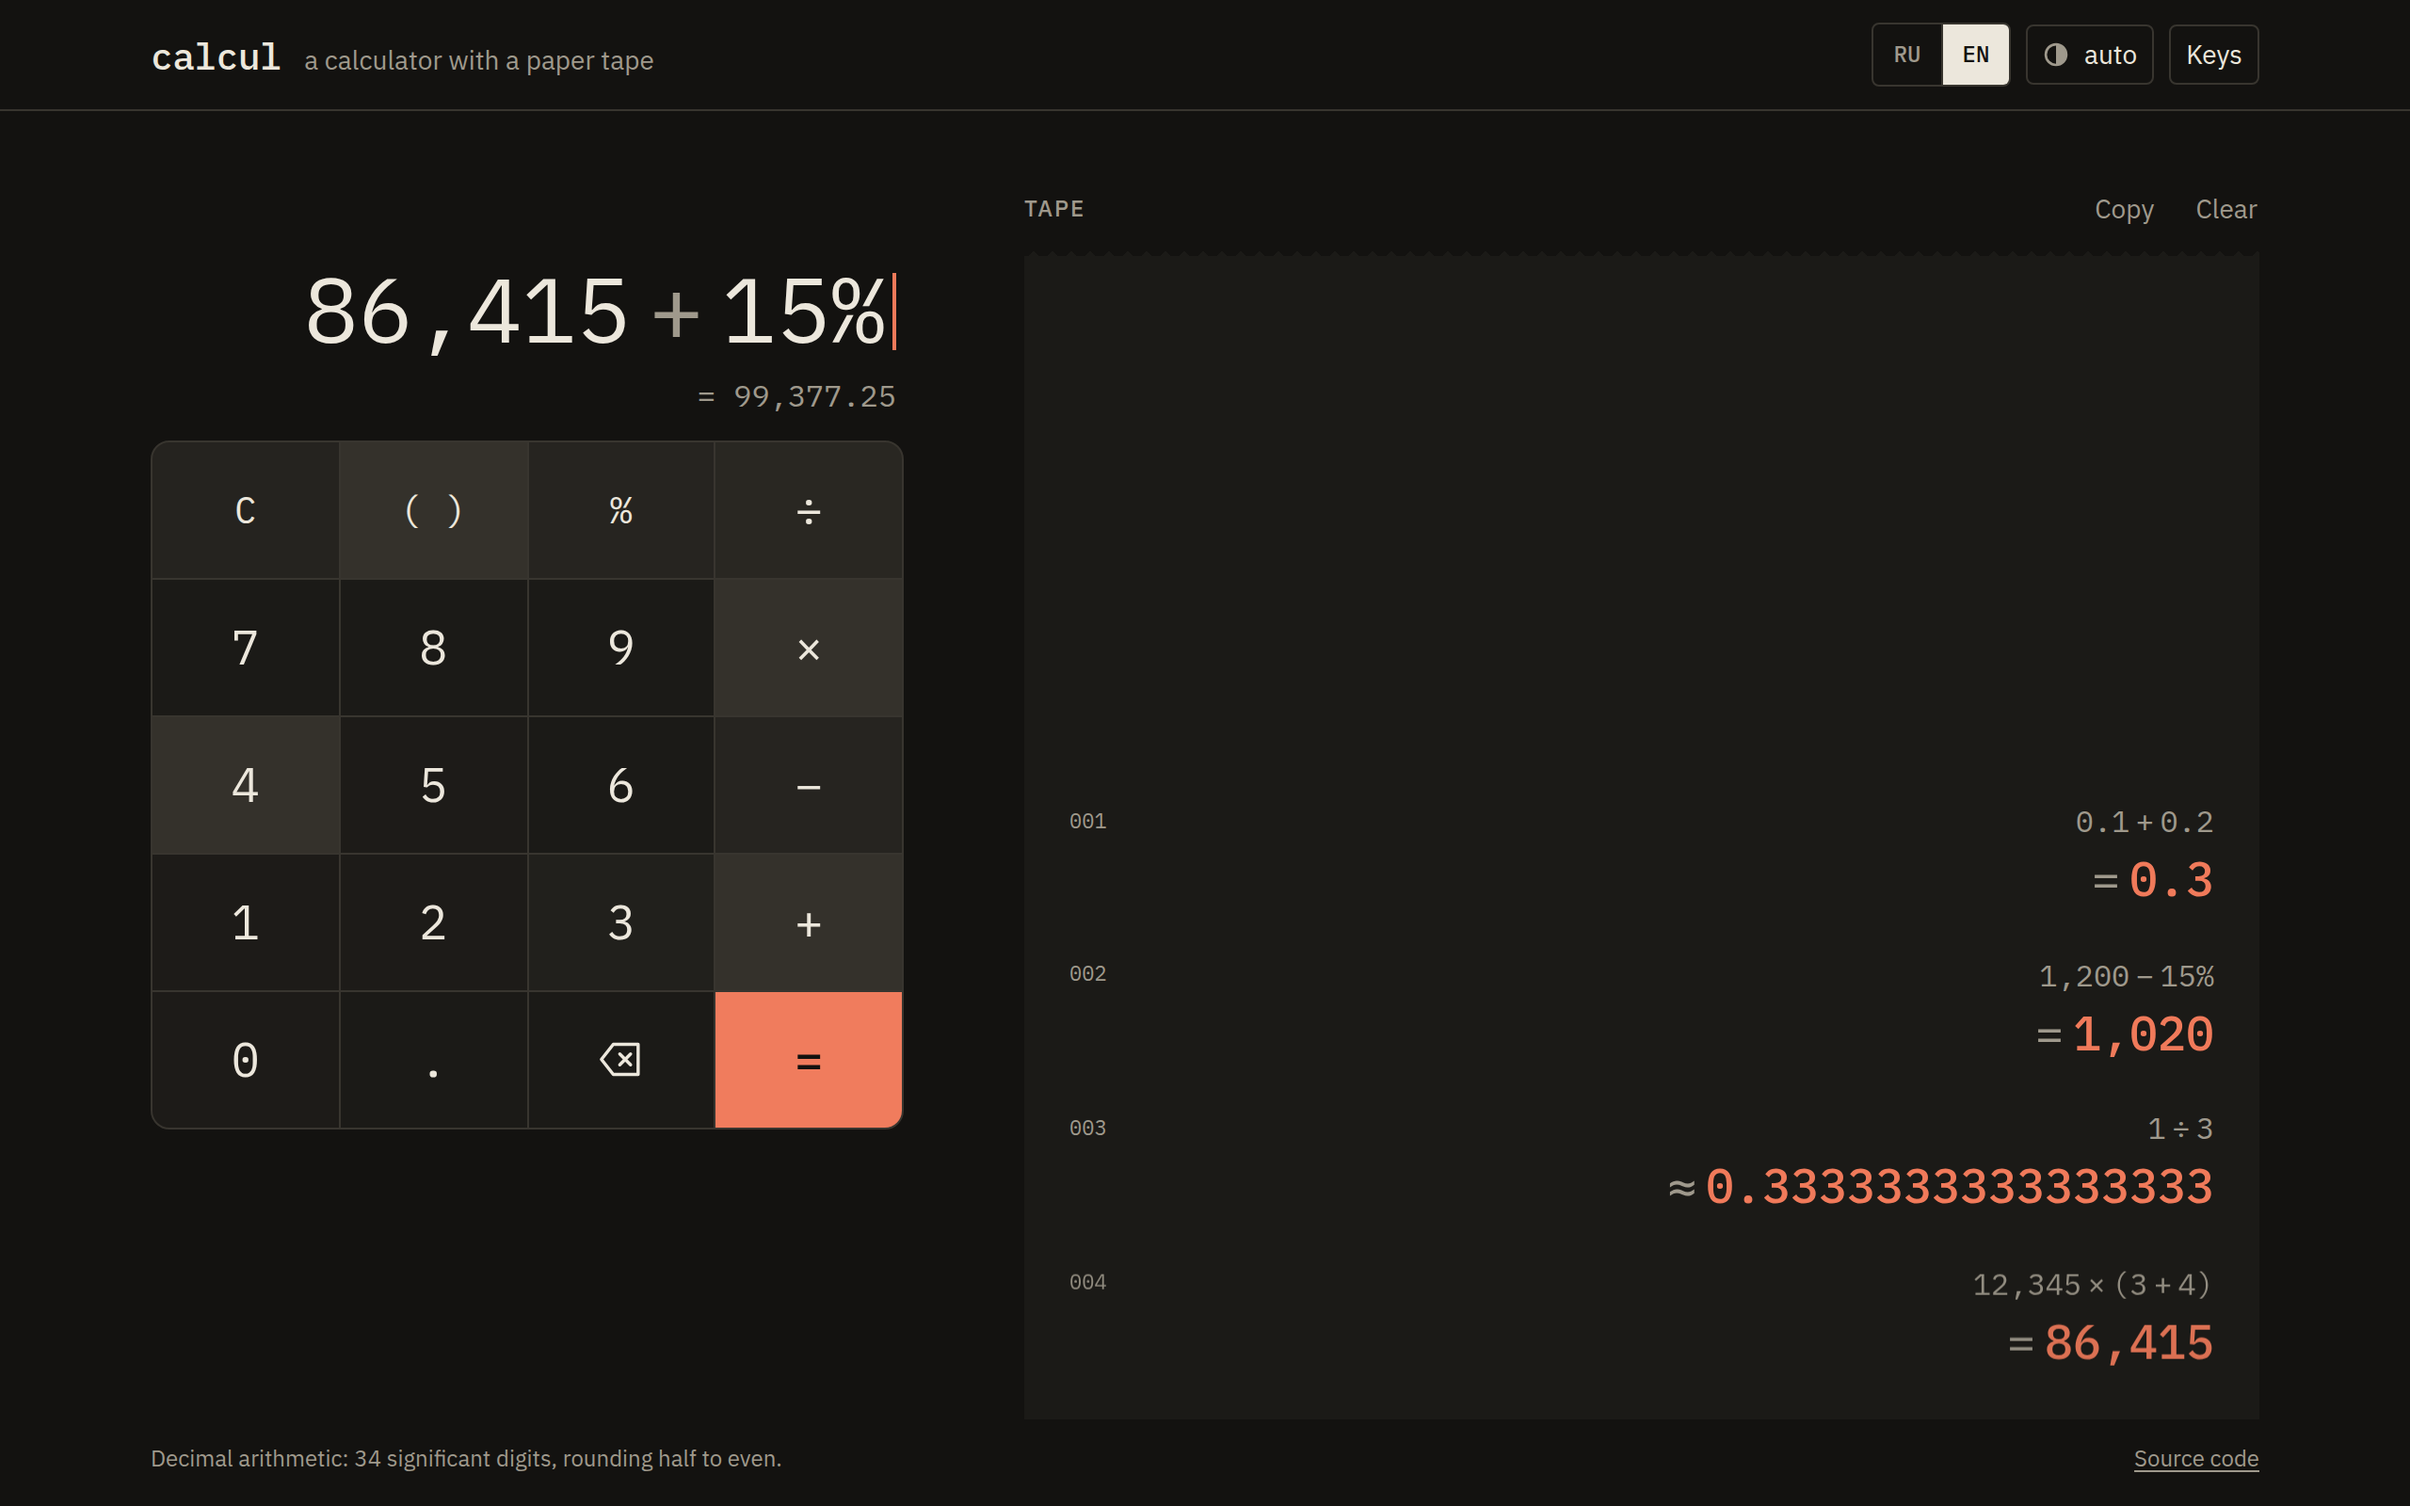
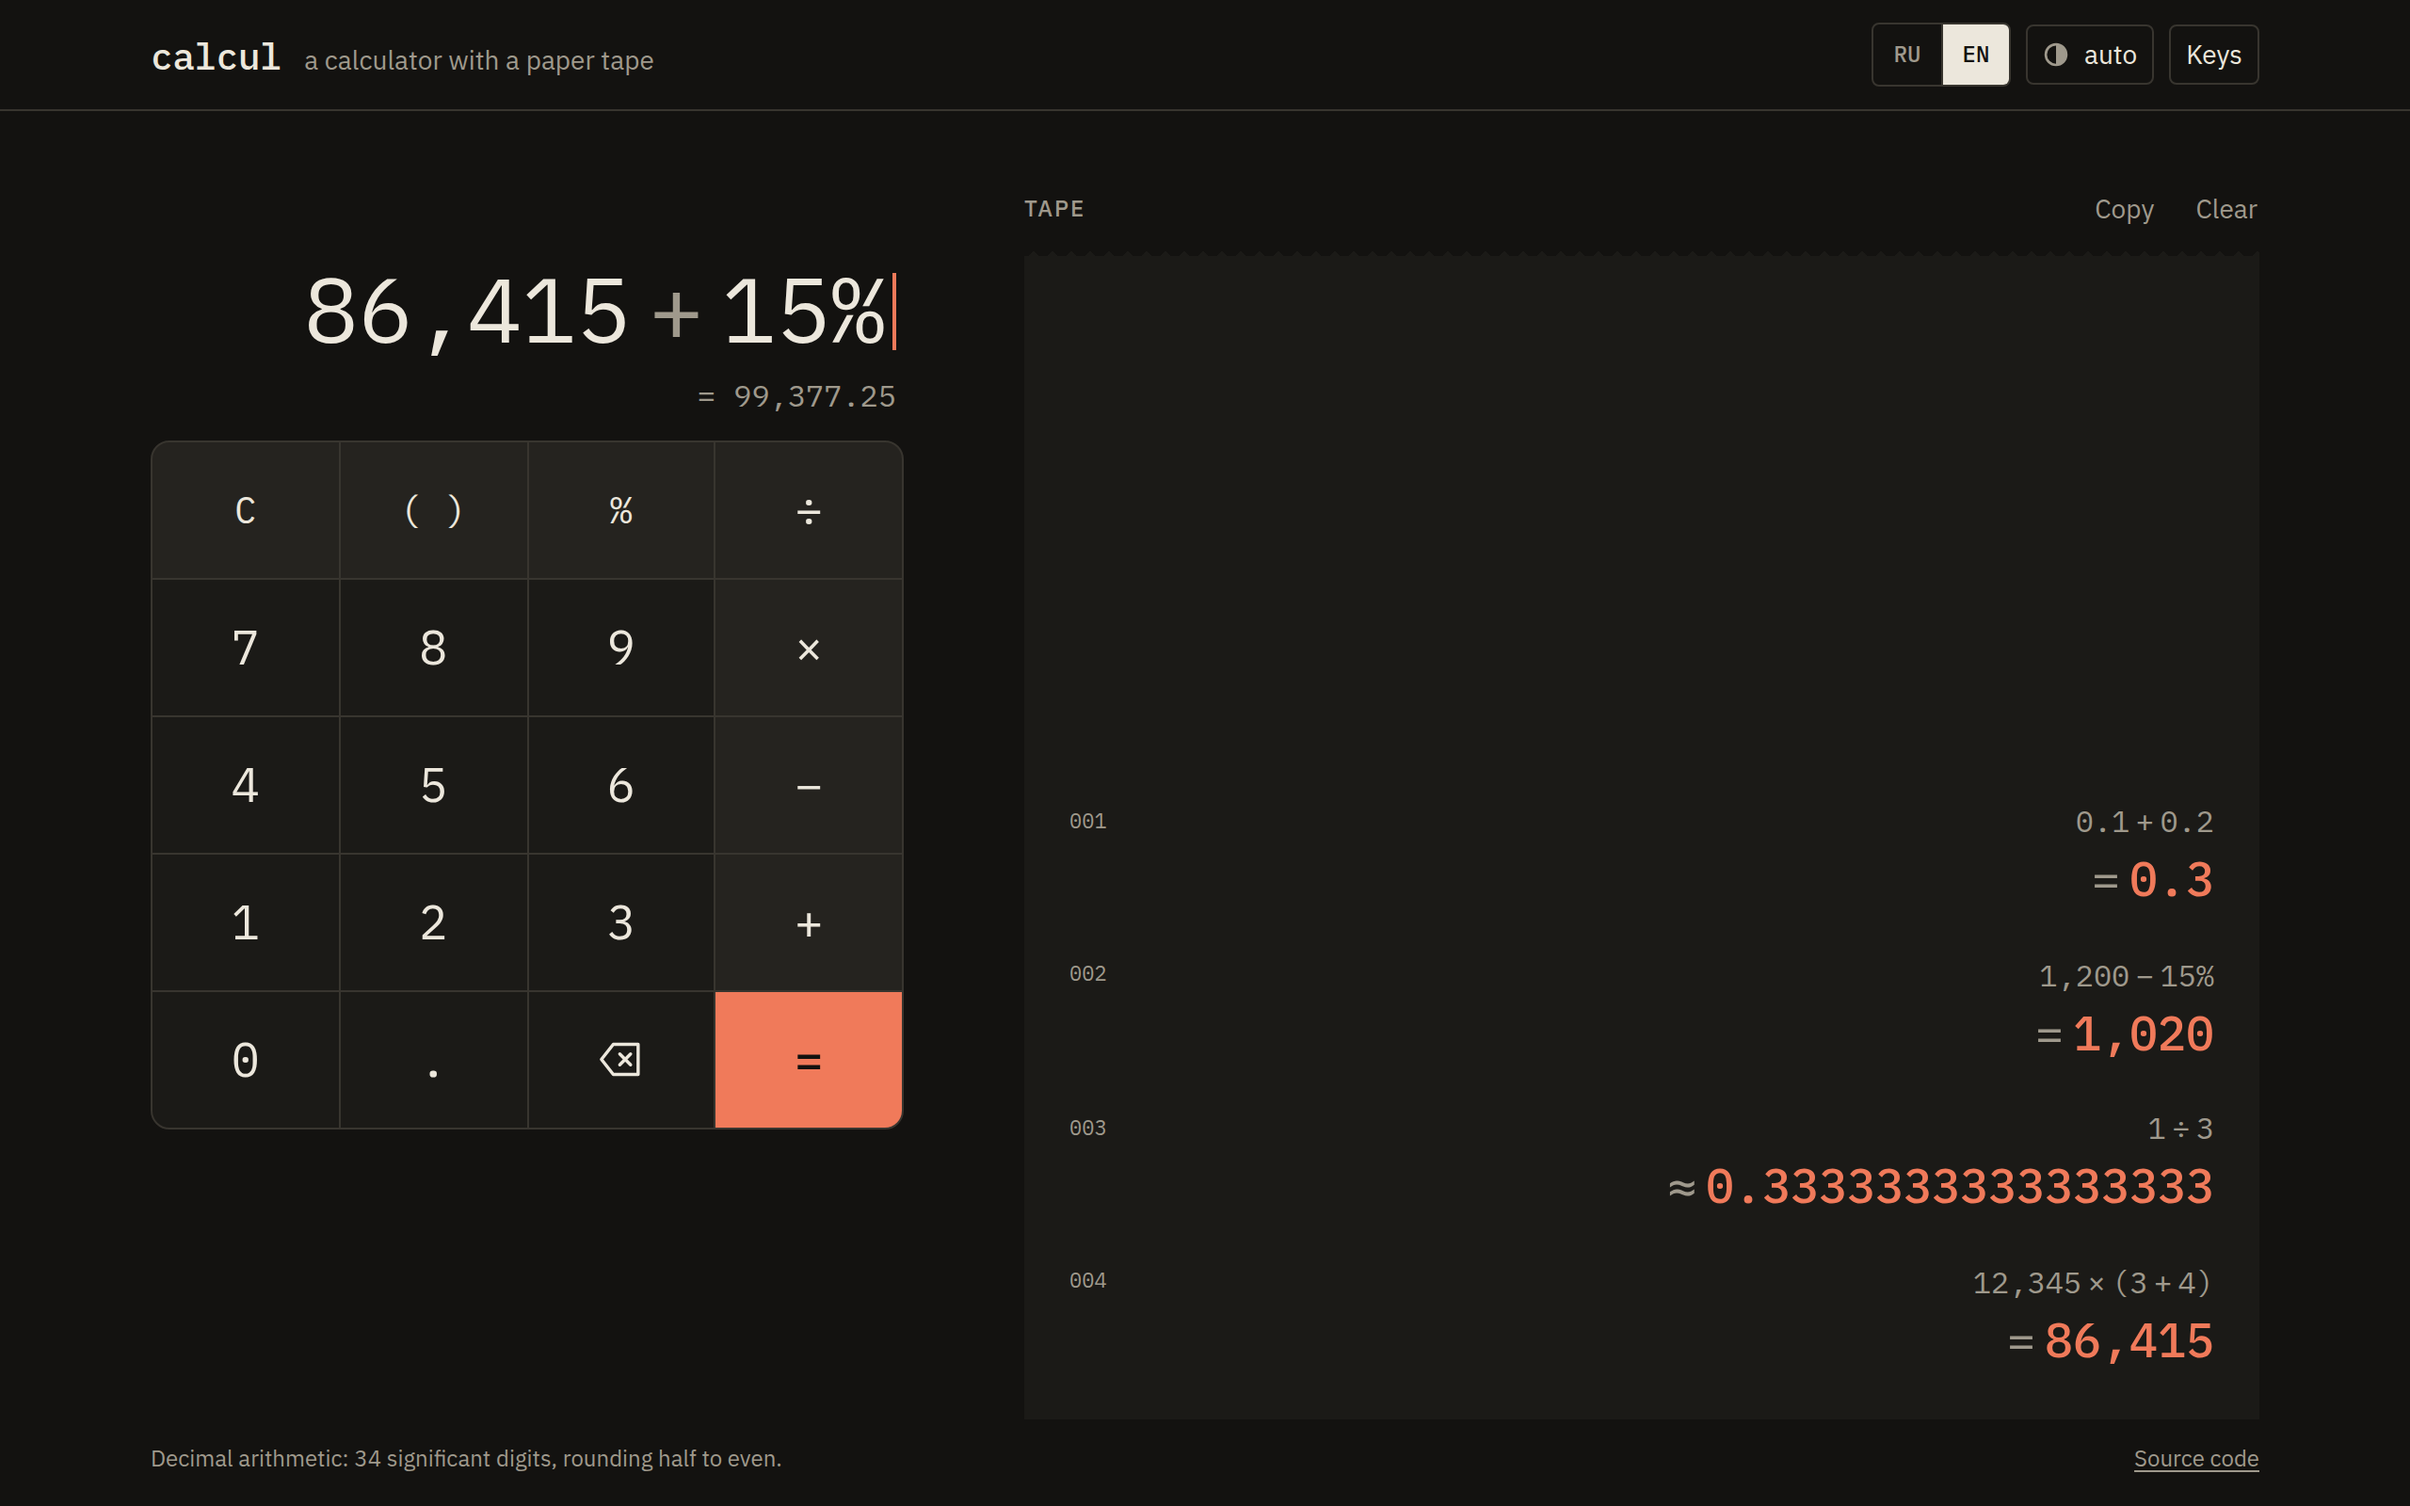
Let key flashes and the print animation settle before screenshots
Claude-Session: https://claude.ai/code/session_013MLo3Yk9syfDvWpPbJJb3z

Changed region(s): [[0.0625, 0.4688, 0.1562, 0.5938], [0.8125, 0.8438, 0.9062, 0.9062]]

diff --git a/scripts/screenshots.ts b/scripts/screenshots.ts
@@ -61,6 +61,7 @@ async function captureStill(browser: Browser, shot: Shot): Promise<void> {
   await page.goto(URL_ROOT);
   await fillTape(page);
   await page.evaluate(() => document.fonts.ready);
+  await page.waitForTimeout(500); // key flashes and the print animation end
   await page.screenshot({ path: join(OUT, `${shot.name}.png`) });
   await context.close();
 }
@@ -79,7 +80,7 @@ async function captureDemo(browser: Browser): Promise<void> {
 
   const delays: number[] = [];
   const frame = async (hundredths: number): Promise<void> => {
-    await page.waitForTimeout(260); // let the print animation finish
+    await page.waitForTimeout(260); // the print animation and key flashes end
     const index = String(delays.length).padStart(3, '0');
     await page.screenshot({ path: join(frames, `${index}.png`) });
     delays.push(hundredths);
